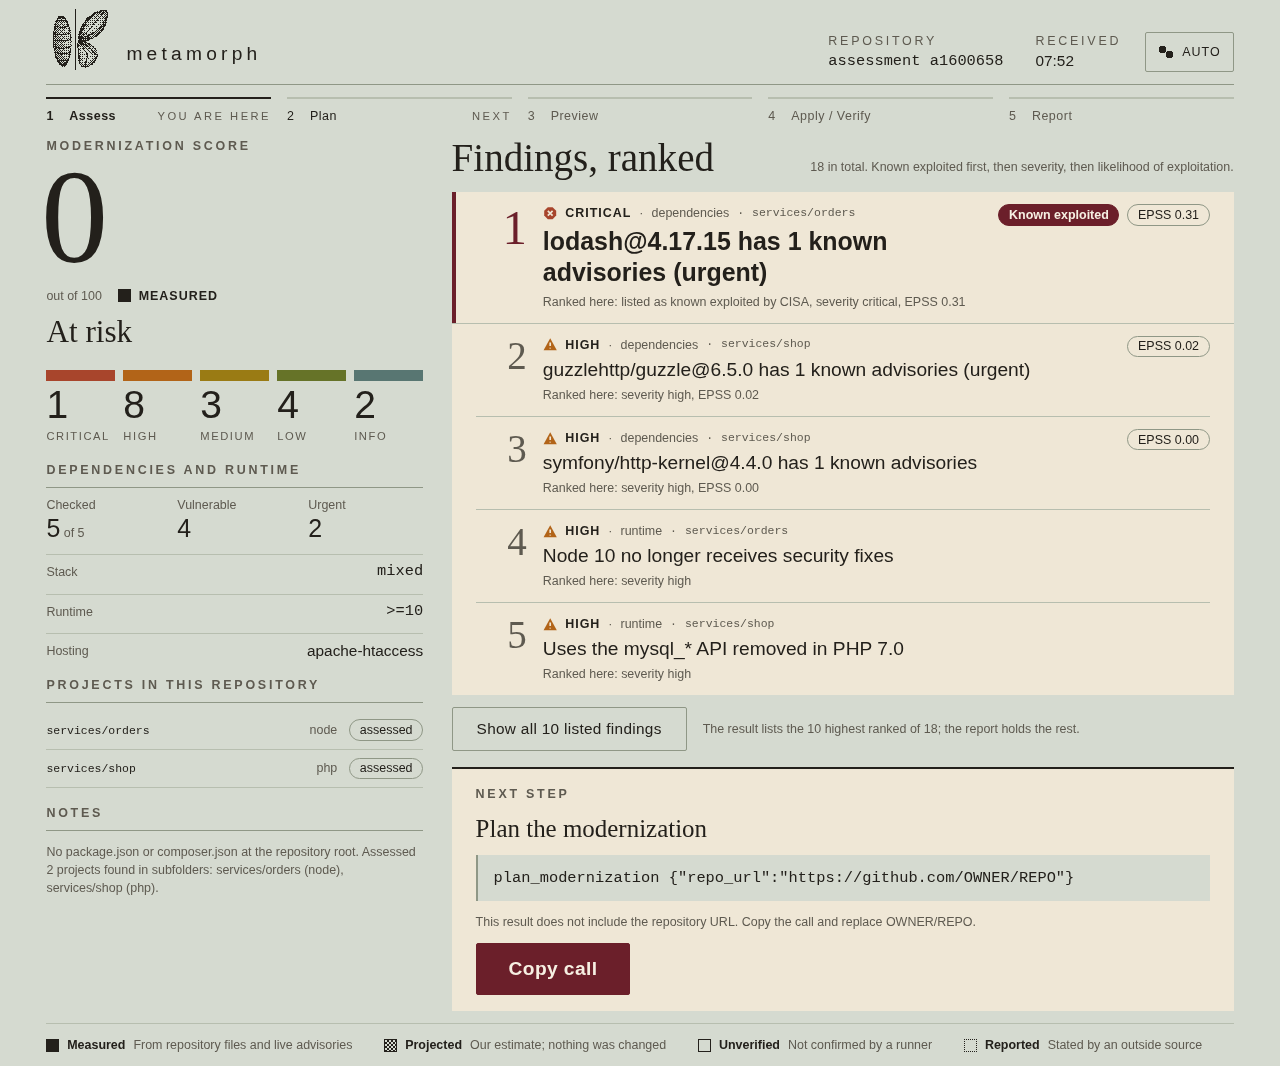
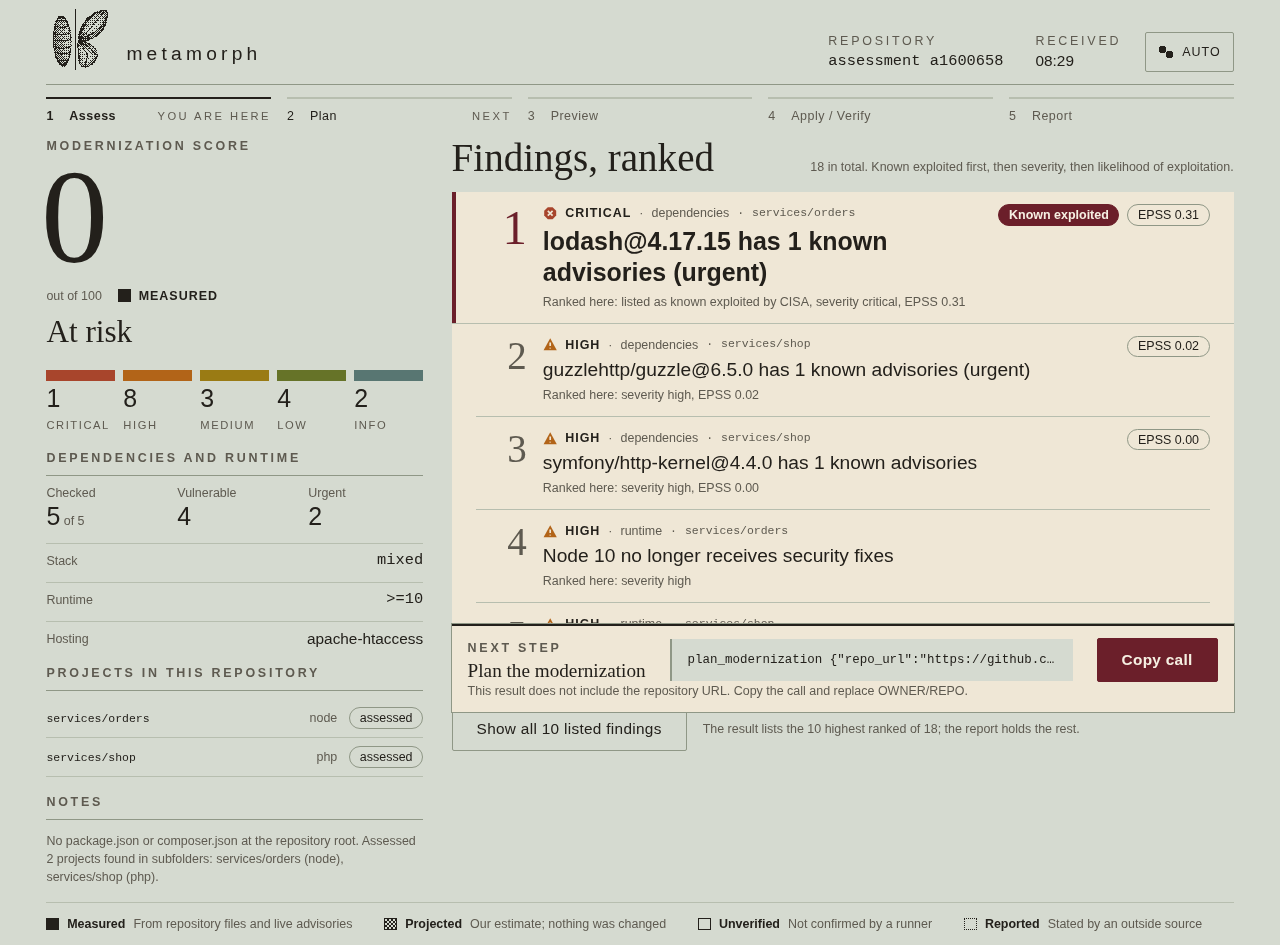
Widgets: Next step bar visible at 1280x720, softer dark marker on the top finding, lighter severity digits

Changed region(s): [[0.0312, 0.0, 0.9688, 0.982], [0.875, 0.3069, 0.9375, 0.4296], [0.875, 0.4603, 0.9375, 0.491]]

diff --git a/src/widgets/app/mm.css b/src/widgets/app/mm.css
@@ -65,7 +65,7 @@
 .mm .seg { display: flex; flex-direction: column; gap: var(--s-1); }
 .mm .seg-bar { height: 0.7rem; background: var(--sev); }
 .mm .seg-zero .seg-bar { background: transparent; box-shadow: inset 0 0 0 1px var(--rule-strong); }
-.mm .seg-n { font-size: var(--step-4); line-height: 1; font-weight: 300; }
+.mm .seg-n { font-size: var(--step-2); line-height: 1.1; font-weight: 400; }
 .mm .seg-zero .seg-n { color: var(--muted); }
 .mm .seg-label { font-size: 0.7rem; letter-spacing: 0.14em; text-transform: uppercase; color: var(--muted); }
 .mm .sev-critical { --sev: var(--sev-critical); }
@@ -123,8 +123,14 @@
 .mm .actions { display: flex; flex-wrap: wrap; align-items: center; gap: var(--s-3); }
 
 /* ---------- next step ---------- */
-.mm .next { background: var(--panel); padding: var(--s-4) var(--s-5); display: flex; flex-direction: column; gap: var(--s-3); border-top: 2px solid var(--text); }
-.mm .next-title { font-family: var(--font-serif); font-weight: 400; font-size: var(--step-2); line-height: var(--lh-tight); }
+.mm .next { background: var(--panel); padding: var(--s-3) var(--s-4); display: grid; grid-template-columns: auto minmax(0, 1fr) auto; grid-template-rows: auto auto; align-items: center; column-gap: var(--s-5); row-gap: 0; border-top: 2px solid var(--text); position: sticky; bottom: var(--s-2); z-index: 3; box-shadow: 0 0 0 1px var(--rule-strong); }
+.mm .next > .eyebrow { grid-column: 1; grid-row: 1; }
+.mm .next > .next-title { grid-column: 1; grid-row: 2; font-family: var(--font-serif); font-weight: 400; font-size: var(--step-1); line-height: var(--lh-tight); }
+.mm .next > .call { grid-column: 2; grid-row: 1 / span 2; white-space: nowrap; overflow: hidden; text-overflow: ellipsis; font-size: var(--step--1); }
+.mm .next > .actions { grid-column: 3; grid-row: 1 / span 2; flex-wrap: nowrap; }
+.mm .next > .small { grid-column: 1 / -1; }
+.mm .next .btn { min-height: 2.75rem; padding: 0 var(--s-5); font-size: var(--step-0); }
+@media (max-width: 900px) { .mm .next { grid-template-columns: minmax(0, 1fr); } .mm .next > * { grid-column: 1 !important; grid-row: auto !important; } .mm .next > .call { white-space: pre-wrap; } }
 .mm .call { background: var(--base); padding: var(--s-3) var(--s-4); overflow-x: auto; white-space: pre-wrap; overflow-wrap: anywhere; font-size: var(--step-0); border-left: 2px solid var(--rule-strong); }
 .mm .status { color: var(--muted); }
 .mm .status:empty { display: none; }
@@ -166,3 +172,7 @@
 .mm .inline-tools { position: absolute; top: var(--s-5); right: var(--s-5); z-index: 2; }
 .mm-inline .frame-inline { position: relative; }
 .mm .inline-tools .tswitch { min-height: 2rem; }
+
+/* dark: a softer marker on the forest panel (the full crimson bar vibrated) */
+.mm[data-theme="dark"] .is-top { box-shadow: inset 3px 0 0 color-mix(in srgb, var(--accent) 55%, var(--panel)); }
+.mm[data-theme="dark"] .ci-top-finding { border-left-color: color-mix(in srgb, var(--accent) 55%, var(--panel)); }
